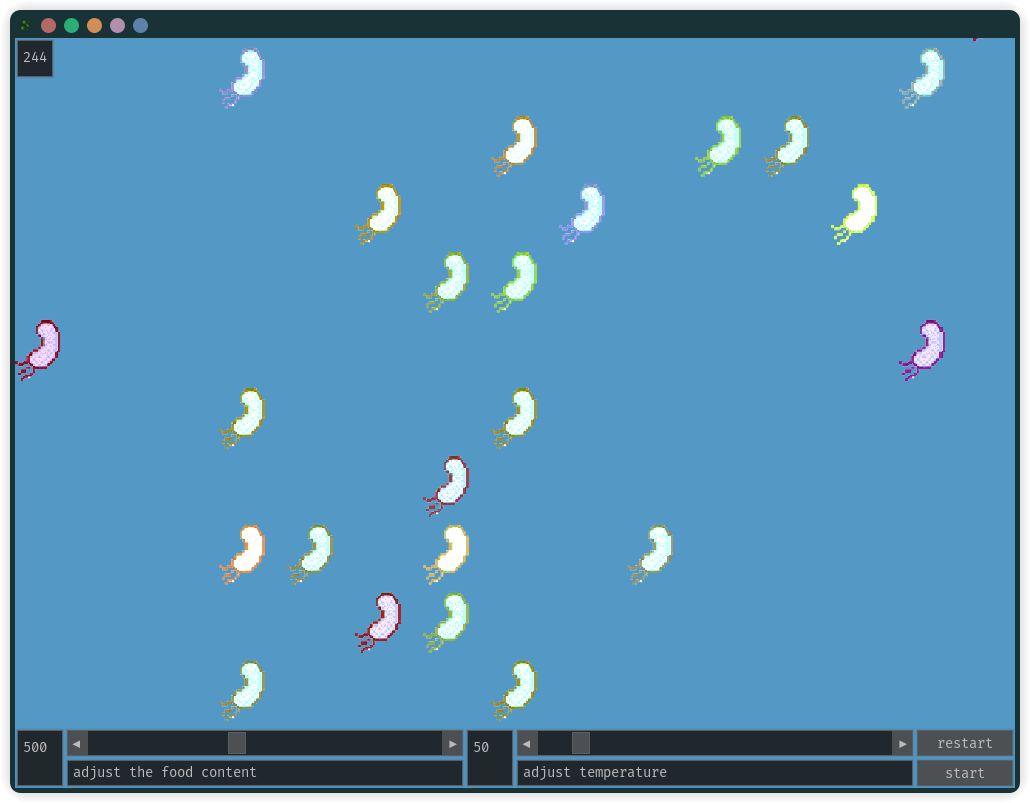
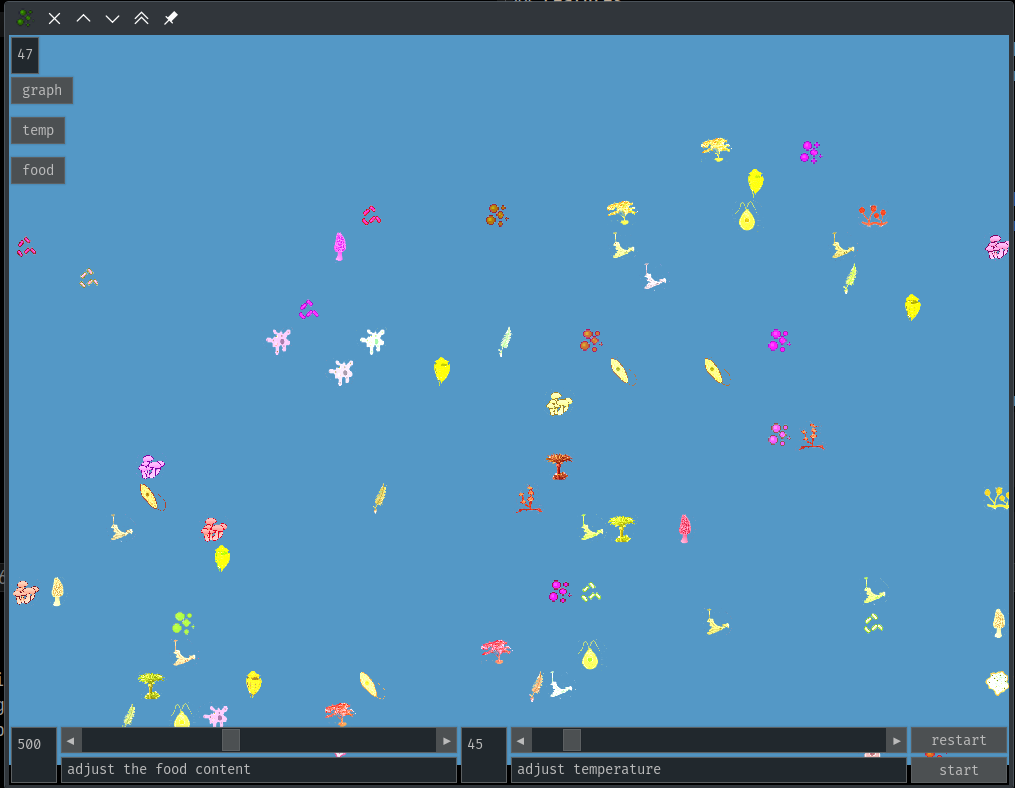
version bump: 0.9.0 --> 0.10.0
Add classification support with more graphics, also update the readme
with the latest version.

diff --git a/src/darwinio/graphical_sim.py b/src/darwinio/graphical_sim.py
@@ -29,6 +29,7 @@ import pygame_gui as pgui
 import numpy as np
 
 import darwinio.distribution as dist
+import darwinio.organism as org
 import darwinio.genome as gn
 import darwinio.stats as statistics
 
@@ -40,7 +41,7 @@ class World(dist.World):
     An additional method to render the world.
     """
 
-    def render(self, surface: pg.Surface, image: pg.Surface):
+    def render(self, surface: pg.Surface, images: list[pg.Surface]):
         """
         Renders the organisms on the given surface using the provided image.
 
@@ -48,18 +49,20 @@ class World(dist.World):
         -----
         surface: The surface on which the organisms will be rendered.
 
-        image: The image representing an organism.
+        images: The images representing organisms.
         """
         organisms = self.organism_distribution.data
         for y, row in enumerate(organisms):
             for x, organism in enumerate(row):
                 if organism is not None:
+                    image = images[
+                        np.clip(
+                            int(organism.get_tier() * len(images)), 0, len(images) - 1
+                        )
+                    ]
                     color = pg.Color(f"#{gn.array2hex(organism.genome_array)[-6:]}")
                     tinted_image: pg.Surface = tint(image, color)
-                    surface.blit(
-                        tinted_image,
-                        (x * 64, y * 64),
-                    )
+                    surface.blit(tinted_image, (x * 64, y * 64))
 
 
 def render_np_2d_array(array: np.ndarray, surface: pg.Surface):
@@ -310,20 +313,20 @@ class OrganismSelection(State):
         for event in events:
             if event.type == pgui.UI_BUTTON_PRESSED:
                 if event.ui_element == self.done_button:
-                    energy_range = (
+                    energy_range: tuple[int, int] = (
                         int(self.energy_slider_min.slider.get_current_value()),
                         int(self.energy_slider_max.slider.get_current_value()),
                     )
-                    temp_range = (
+                    temp_range: tuple[int, int] = (
                         int(self.temp_slider_min.slider.get_current_value()),
                         int(self.temp_slider_max.slider.get_current_value()),
                     )
+
+                    org.Organism.energy_range = energy_range
+                    org.Organism.temp_range = temp_range
+
                     self.world.organism_distribution = (
-                        dist.OrganismDistribution.generate(
-                            size=self.world.canvas_size,
-                            energy_range=energy_range,
-                            temp_range=temp_range,
-                        )
+                        dist.OrganismDistribution.generate(size=self.world.canvas_size)
                     )
                     return self.next_state_index
                 if event.ui_element == self.skip_button:
@@ -511,7 +514,7 @@ class Simulation(State):
         surface: pg.Surface,
         world: World,
         stats: statistics.StatisticsCollector,
-        image_path: str,
+        images: list[pg.Surface],
     ):
         """
         Args:
@@ -522,7 +525,7 @@ class Simulation(State):
 
         stats: The stats object for collecting data and plotting.
 
-        image_path: The path of the image which will be used for the organism.
+        images: The images representing organisms.
         """
 
         surface_size = width, height = surface.get_size()
@@ -530,9 +533,7 @@ class Simulation(State):
 
         # Simulation Interface
 
-        self.image: pg.Surface = pg.transform.scale(
-            pg.image.load(image_path).convert_alpha(), (64, 64)
-        )
+        self.images: list[pg.Surface] = images
 
         self.running = False
 
@@ -597,7 +598,7 @@ class Simulation(State):
         """render the main screen state."""
         self.sim_surface.fill("black")
         self.world_surface.fill("#5498C6")
-        self.world_buffer.render(self.world_surface, self.image)
+        self.world_buffer.render(self.world_surface, self.images)
         self.sim_surface.blit(self.scaled_world_surface, self.world_rect)
         self.surface.blit(self.sim_surface, self.sim_rect)
         self.manager.draw_ui(self.surface)

diff --git a/src/darwinio/organism.py b/src/darwinio/organism.py
@@ -39,12 +39,25 @@ import darwinio.genome as gn
 class Organism:
     """A class representing an organism.
 
+    Class Attributes:
+    ---------
+    temp_range: Range of temperature values for the organism's adaptation.
+
+    energy_range: Range of energy values for the organism's energy capacity.
+
+    reproductive_types: Range of reproductive type values for the organism's
+    reproductive strategy.
+
     Attributes:
     ---------
     genome_array: A Numpy array representing the organism's genome.
 
     neural_network: A neural network generated from the genome of the organism
     """
+
+    temp_range: tuple[int, int] = (30, 150)
+    energy_range: tuple[int, int] = (100, 1000)
+    reproductive_types: tuple[int, int] = (0, 1 + 1)
 
     def __init__(
         self,
@@ -64,23 +77,20 @@ class Organism:
         weights: np.ndarray = brn.create_weights(self.genome_array, neural_structure)
         self.neural_network = brn.NeuralNetwork(weights, neural_structure)
 
+        # range
+        self.temp_range: tuple[int, int] = (30, 150)
+        self.energy_range: tuple[int, int] = (100, 1000)
+        self.reproductive_types: tuple[int, int] = (0, 1 + 1)
+
+    def get_tier(self) -> float:
+        """Return the classification tier."""
+        return np.sum(self.genome_array[:3]) / (
+            self.temp_range[1] + self.energy_range[1] + self.reproductive_types[1]
+        )
+
     @classmethod
-    def random(
-        cls,
-        temp_range: tuple[int, int],
-        energy_range: tuple[int, int],
-        reproductive_types: tuple[int, int],
-    ) -> Organism:
+    def random(cls) -> Organism:
         """Generate a random organism.
-
-        Args:
-        -----
-        temp_range: Range of temperature values for the organism's adaptation.
-
-        energy_range: Range of energy values for the organism's energy capacity.
-
-        reproductive_types: Range of reproductive type values for the organism's
-        reproductive strategy.
 
         Returns:
         ---------
@@ -88,9 +98,9 @@ class Organism:
         """
         characters: np.ndarray = np.array(
             (
-                random.randint(*sorted(temp_range)),
-                random.randint(*sorted(energy_range)),
-                random.randint(*sorted(reproductive_types)),
+                random.randint(*sorted(cls.temp_range)),
+                random.randint(*sorted(cls.energy_range)),
+                random.randint(*sorted(cls.reproductive_types)),
             )
         )
         return cls(characters)

diff --git a/src/darwinio/__main__.py b/src/darwinio/__main__.py
@@ -69,8 +69,37 @@ def main(resolution: tuple[int, int], fps: int, world_size: tuple[int, int]):
     init_help_screen = gsim.TextScreen(screen, constants.HELP, 4)
     help_screen = gsim.TextScreen(screen, constants.HELP, 6)
     distribution_painting = gsim.DistributionPainting(screen, world, 4)
-    with gsim.get_asset_path("art", "archaebacteria_halophile.png") as path:
-        main_game = gsim.Simulation(screen, world, stats, str(path))
+
+    # get images for the organisms.
+    image_names: list[str] = [
+        "archaebacteria_halophile.png",
+        "archaebacteria_methanogen.png",
+        "archaebacteria_thermoacidophile.png",
+        "eubacteria_BGA.png",
+        "eubacteria_mycoplasma.png",
+        "eubacteroa_chemosynthetic.png",
+        "fungi-ascomycetes.png",
+        "fungi-basidiomycetes.png",
+        "fungi-deuteromycetes.png",
+        "fungi-phycomycetes.png",
+        "metaphyta-algae.png",
+        "metaphyta-angiospermae.png",
+        "metaphyta-bryophyta.png",
+        "metaphyta-gymnospermae.png",
+        "metaphyta-pterdiophyta.png",
+        "protista_dinoflagellate.png",
+        "protista_euglena.png",
+        "protista_protozoan.png",
+        "protista_slimemould.png",
+    ]
+    images: list[pg.Surface] = []
+    for file_name in image_names:
+        with gsim.get_asset_path("art", file_name) as path:
+            images.append(
+                pg.transform.scale(pg.image.load(path).convert_alpha(), (64, 64))
+            )
+
+    main_game = gsim.Simulation(screen, world, stats, images)
 
     # Create the state machine
     statemachine = gsim.StateMachine(

diff --git a/src/darwinio/distribution.py b/src/darwinio/distribution.py
@@ -192,9 +192,6 @@ class OrganismDistribution(Distribution):
         cls,
         size: tuple[int, int],
         weights: tuple[float, float] = (0.1, 0.9),
-        temp_range: tuple[int, int] = (30, 150),
-        energy_range: tuple[int, int] = (100, 1000),
-        reproductive_types: tuple[int, int] = (0, 1 + 1),
     ) -> OrganismDistribution:
         """
         Generate a random organism distribution.
@@ -205,11 +202,7 @@ class OrganismDistribution(Distribution):
                     [
                         random.choices(
                             (
-                                org.Organism.random(
-                                    temp_range,
-                                    energy_range,
-                                    reproductive_types,
-                                ),
+                                org.Organism.random(),
                                 None,
                             ),
                             weights=weights,

diff --git a/src/darwinio/genome.py b/src/darwinio/genome.py
@@ -50,7 +50,7 @@ def generate_offspring_genome(
 
     Returns:
     -------
-    A string representing the genome of the offspring.
+    A NumPy array representing the genome of the offspring.
 
     Notes:
     -------

diff --git a/README.md b/README.md
@@ -22,7 +22,6 @@ organisms, genetic codes, and neural networks.
 
 ## Screenshot
 
-![title screen screenshot](./documentation/screenshot/titlescreen.png)
 ![main game play screenshot](./documentation/screenshot/main_game_play.png)
 
 ## Setup
